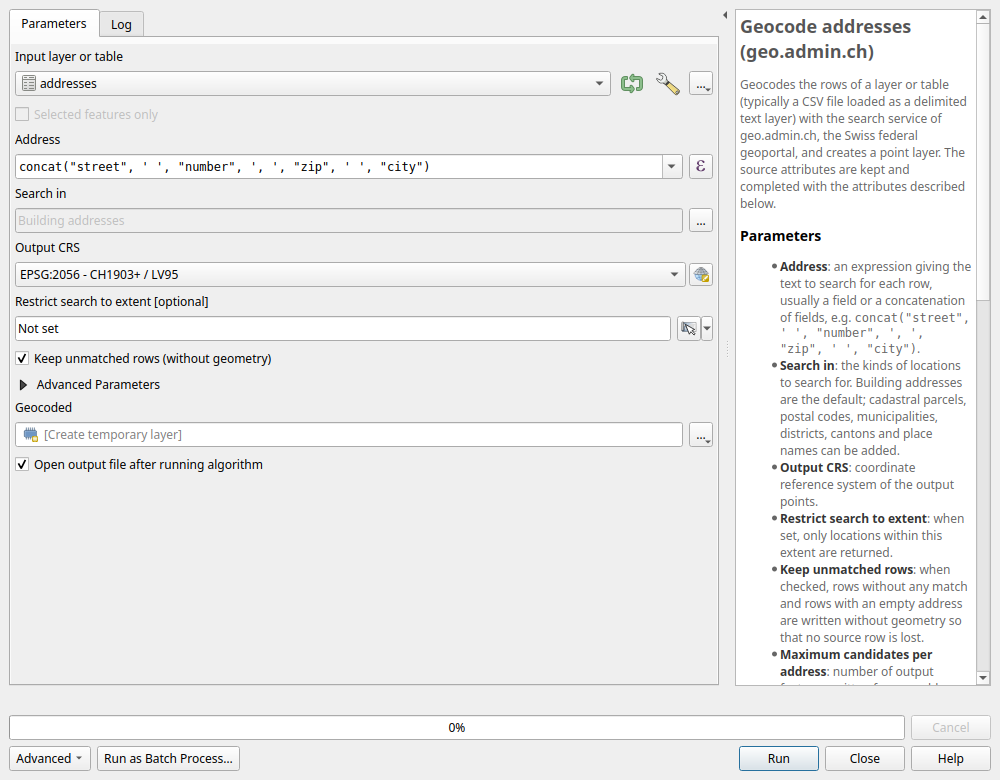
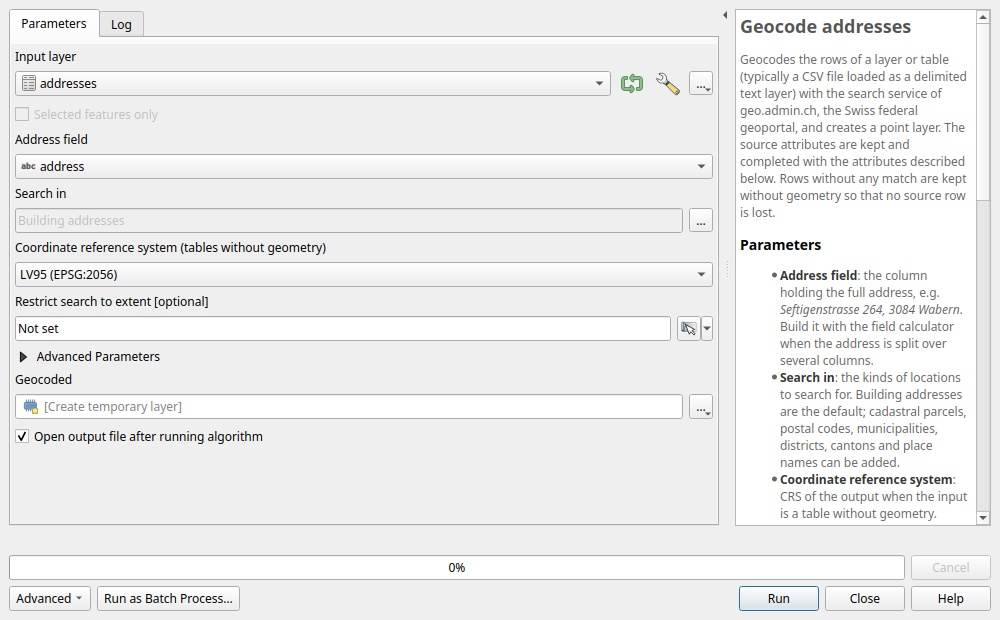
Shorten the algorithm title and update its screenshot

Changed region(s): [[0.0, 0.0, 0.992, 1.0], [0.682, 0.6435, 0.713, 0.6742], [0.682, 0.3371, 0.713, 0.3677]]

diff --git a/swiss_locator/tests/test_geocode_algorithm.py b/swiss_locator/tests/test_geocode_algorithm.py
@@ -132,9 +132,7 @@ class TestProvider(unittest.TestCase):
         try:
             algorithm = registry.algorithmById("swiss_locator:geocodeaddresses")
             self.assertIsNotNone(algorithm)
-            self.assertEqual(
-                algorithm.displayName(), "Geocode addresses (geo.admin.ch)"
-            )
+            self.assertEqual(algorithm.displayName(), "Geocode addresses")
             self.assertFalse(algorithm.icon().isNull())
         finally:
             registry.removeProvider(provider)

diff --git a/swiss_locator/processing/geocode_addresses_algorithm.py b/swiss_locator/processing/geocode_addresses_algorithm.py
@@ -87,7 +87,7 @@ class GeocodeAddressesAlgorithm(QgsBatchGeocodeAlgorithm):
         return "geocodeaddresses"
 
     def displayName(self) -> str:
-        return self.tr("Geocode addresses (geo.admin.ch)")
+        return self.tr("Geocode addresses")
 
     def group(self) -> str:
         return self.tr("Geocoding")

diff --git a/README.md b/README.md
@@ -35,12 +35,12 @@ English, French, German and Italian, shows each search with examples.
 ### Batch geocoding
 
 The plugin adds a **Swiss Locator** provider to the Processing toolbox with the algorithm
-**Geocode addresses (geo.admin.ch)**. It geocodes every row of a layer or table and writes a point
+**Geocode addresses**. It geocodes every row of a layer or table and writes a point
 layer that keeps the source attributes. It is built on the batch geocoding algorithm of QGIS.
 
 1. Load the table of addresses, e.g. a CSV file through Layer -> Add Layer -> Add Delimited Text Layer
    with the geometry definition set to *No geometry*.
-2. Open the Processing toolbox and run Swiss Locator -> Geocode addresses (geo.admin.ch).
+2. Open the Processing toolbox and run Swiss Locator -> Geocode addresses.
 3. Set the **Address field**: the column holding the full address, such as
    `Seftigenstrasse 264, 3084 Wabern`. When the address is split over several columns, build it
    first with the field calculator, e.g. `concat("street", ' ', "number", ', ', "zip", ' ', "city")`.
